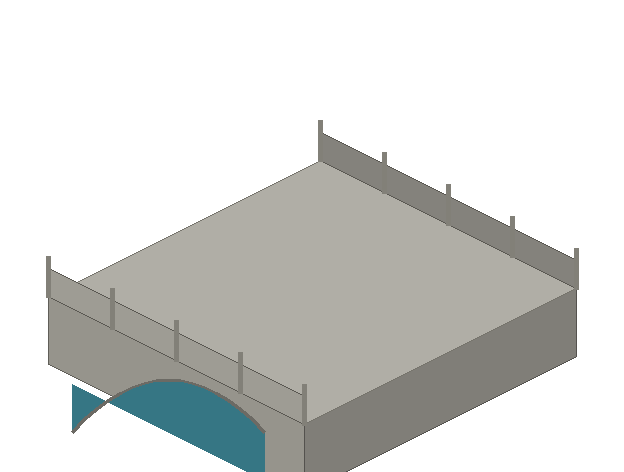
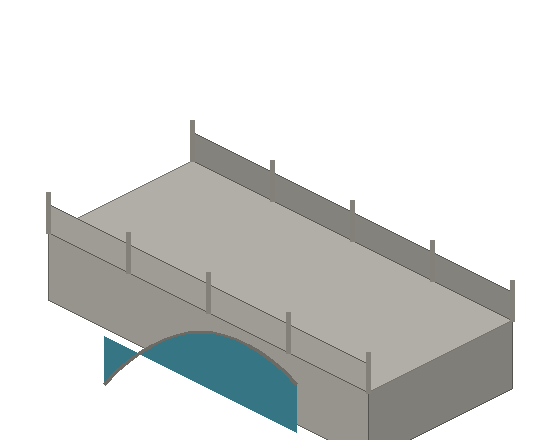
收紧海边町为单车道：路面 64、人行道 32，地面按真实宽度绘制
沥青改为 64 像素单车道，人行道 32 像素，巴士仍为 168×52 并居中停在车道里，队伍从人行道穿行。建筑贴到新路沿，商店街仍连成短跑线，运河只留石桥和木桥。

地面格网从 64 加密到 32，并按实际矩形画出路沿线与斑马线，避免 32 宽人行道和铁岸被整格放大。单车道用素沥青，不再画中间虚线。石桥、木桥按新路宽重做。

Changed region(s): [[0.0607, 0.2659, 0.9411, 1.0]]

diff --git a/tools/make_iso_art.py b/tools/make_iso_art.py
@@ -624,8 +624,8 @@ def make_bike() -> Image.Image:
 
 
 def stone_bridge() -> Image.Image:
-    # Canal is 96 map units wide; deck follows the 128-deep EW road.
-    w, d, h = 128, 136, 22
+    # Canal is 96 map units plus 32-unit banks; deck follows the 64-deep EW road.
+    w, d, h = 160, 72, 22
     drop = 34
     img, vx, _ = sprite_canvas(w, d, h + drop, pad=24)
     dr = ImageDraw.Draw(img)
@@ -659,7 +659,7 @@ def stone_bridge() -> Image.Image:
 
 
 def wood_bridge() -> Image.Image:
-    w, d, h = 128, 64, 16
+    w, d, h = 160, 64, 16
     img, vx, _ = sprite_canvas(w, d, h + 16, pad=16)
     dr = ImageDraw.Draw(img)
     sw, se, nw, ne = vx(-w / 2, 0), vx(w / 2, 0), vx(-w / 2, -d), vx(w / 2, -d)
